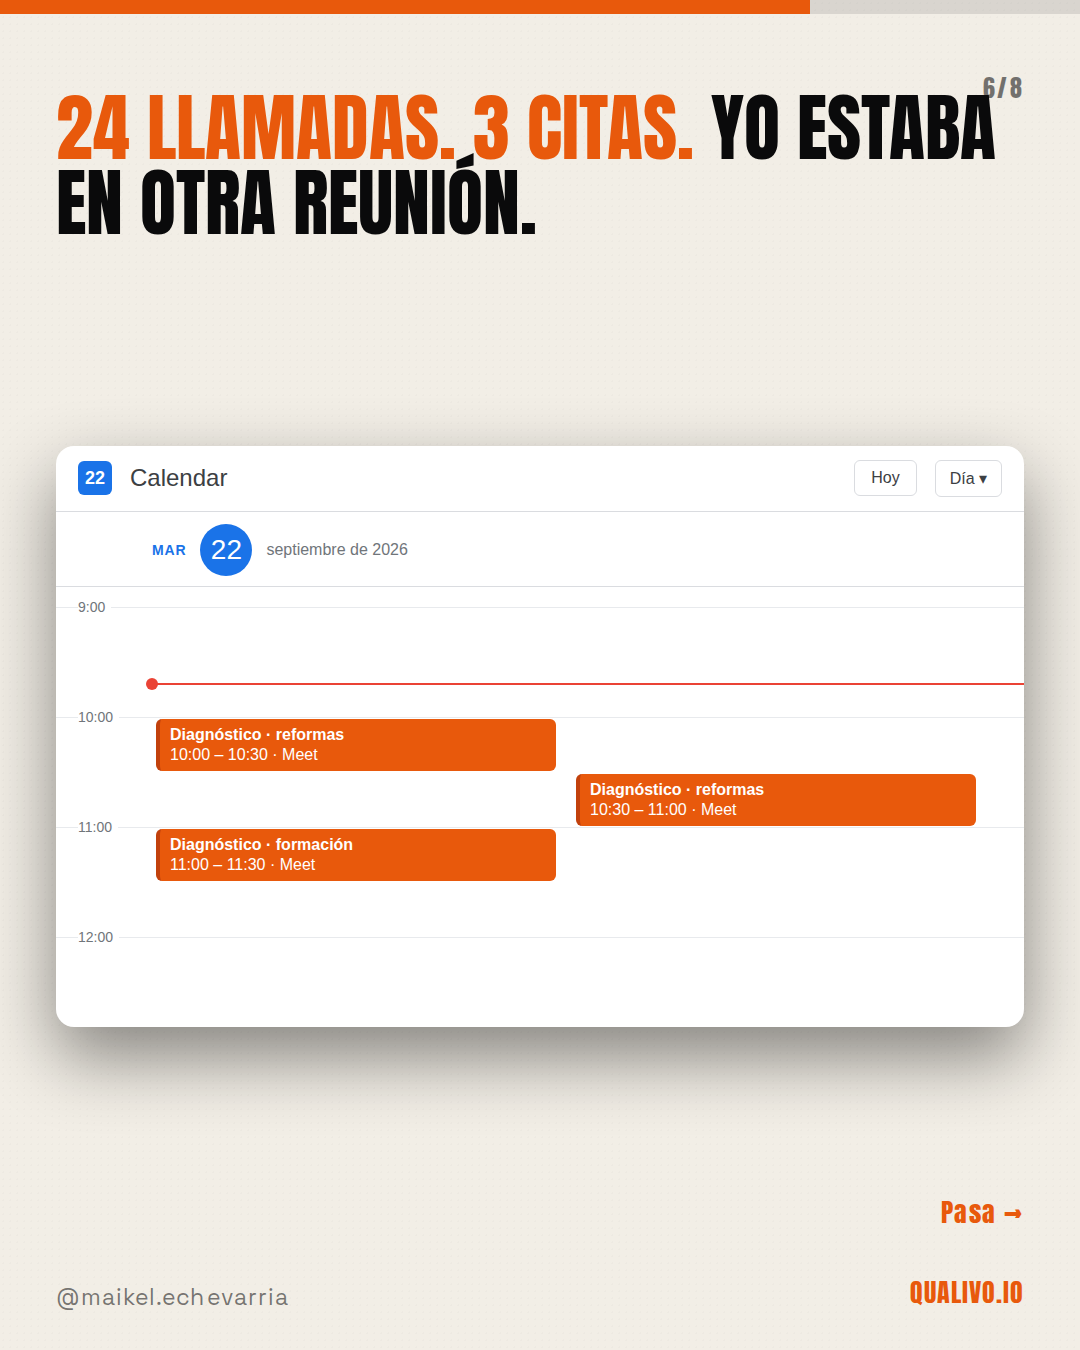
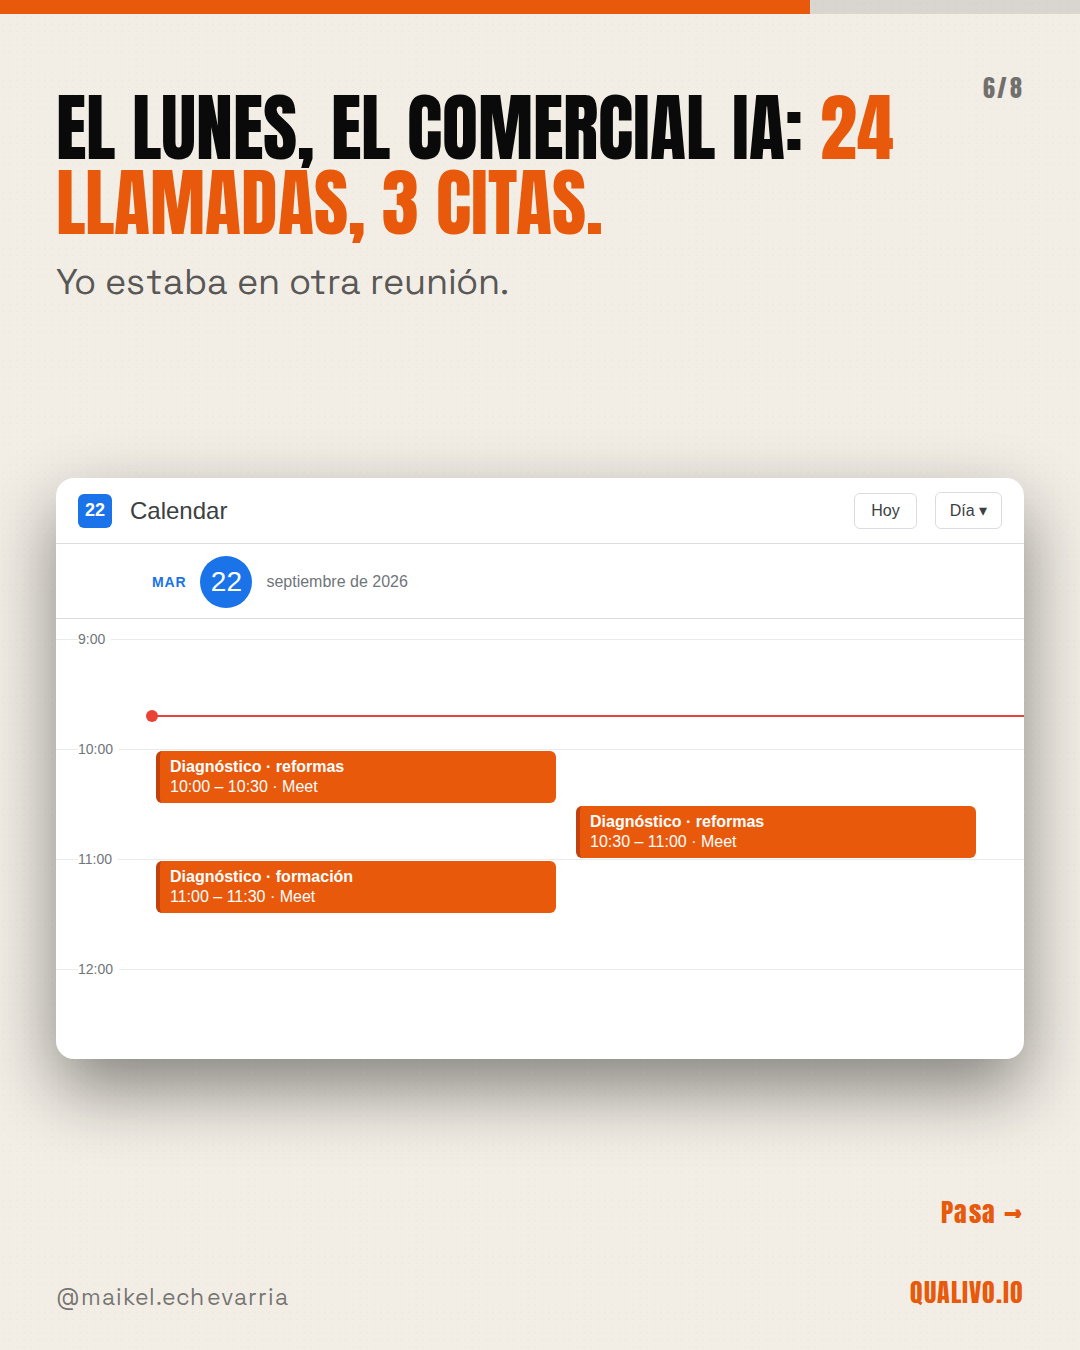
Carrusel del contacto: «esto es lo que hace un comercial IA», dicho tal cual
Claude-Session: https://claude.ai/code/session_015zPzMSu62cfqSPYhENKK62

diff --git a/content/carruseles/2026-09-22-contacto-7x/lamina-5.html b/content/carruseles/2026-09-22-contacto-7x/lamina-5.html
@@ -57,7 +57,8 @@ body{padding:0;background:#000}
 .now::before{content:'';position:absolute;left:-6px;top:-7px;width:12px;height:12px;border-radius:50%;background:#ea4335}
 .big{font-family:Anton;font-size:250px;line-height:.9;color:#E8590C;letter-spacing:-.02em}
 </style></head><body><div class="page tinta"><div class="prog"><i style="width:62%"></i></div><div class="n">5/8</div><div class="in">
-  <div class="h"><span class="nar">Lo mismo.</span> Sin depender de que alguien se acuerde.</div>
+  <div class="h">Esto es lo que hace <span class="nar">un comercial IA.</span></div>
+  <div class="t" style="opacity:.75">Lo mismo que el mejor comercial. Sin depender de que alguien se acuerde.</div>
   <div class="vis"><div class="phone"><div class="scr"><div class="sb"><span>10:11</span><span>●●● ᯤ ▮</span></div>
 <div class="wah"><span class="back">‹</span><div class="av">M</div><div><b>Maikel Echevarría</b><small>en línea</small></div></div>
 <div class="wall"><div class="day">lunes 21</div><div class="bub mio">Hola <span class="tapa"></span>, soy Maikel, de Qualivo. Acabas de pedir el diagnóstico y he leído lo que me has contado. ¿Lo vemos por aquí un momento?<span class="hh">10:11 ✓✓</span></div></div><div class="callbar"><div class="ic">📞</div><div><b>Raquel · llamada saliente</b><small>10:30 · a los 20 minutos, no había contestado</small></div></div></div></div></div>

diff --git a/content/carruseles/2026-09-22-contacto-7x/lamina-6.html b/content/carruseles/2026-09-22-contacto-7x/lamina-6.html
@@ -57,7 +57,8 @@ body{padding:0;background:#000}
 .now::before{content:'';position:absolute;left:-6px;top:-7px;width:12px;height:12px;border-radius:50%;background:#ea4335}
 .big{font-family:Anton;font-size:250px;line-height:.9;color:#E8590C;letter-spacing:-.02em}
 </style></head><body><div class="page crema"><div class="prog"><i style="width:75%"></i></div><div class="n">6/8</div><div class="in">
-  <div class="h"><span class="nar">24 llamadas. 3 citas.</span> Yo estaba en otra reunión.</div>
+  <div class="h">El lunes, el comercial IA: <span class="nar">24 llamadas, 3 citas.</span></div>
+  <div class="t" style="opacity:.75">Yo estaba en otra reunión.</div>
   <div class="vis"><div class="gcal">
 <div class="gtop"><div class="logo">22</div><div class="ttl">Calendar</div><div class="today">Hoy</div><div class="view">Día ▾</div></div>
 <div class="gday"><div><div class="dow">MAR</div></div><div class="num">22</div><div style="font-size:16px;color:#70757a">septiembre de 2026</div></div>

diff --git a/content/carruseles/2026-09-22-contacto-7x/lamina-1.html b/content/carruseles/2026-09-22-contacto-7x/lamina-1.html
@@ -58,7 +58,7 @@ body{padding:0;background:#000}
 .big{font-family:Anton;font-size:250px;line-height:.9;color:#E8590C;letter-spacing:-.02em}
 </style></head><body><div class="page tinta"><div class="prog"><i style="width:12%"></i></div><div class="n">1/8</div><div class="in">
   <div class="h" style="font-size:82px">Tardar una hora en contestar te cuesta <span class="nar">7 veces</span> más de lo que crees.</div>
-  <div class="t" style="opacity:.75">Lo midió Harvard en 2.241 empresas. Y lo que hago yo para que no me pase.</div>
+  <div class="t" style="opacity:.75">Lo midió Harvard en 2.241 empresas. Y esto es lo que hace un comercial IA para que no te pase.</div>
   <div class="vis"><svg width="440" height="440" viewBox="0 0 520 520" style="display:block;margin:0 auto">
 <circle cx="260" cy="260" r="230" fill="none" stroke="rgba(242,238,230,.12)" stroke-width="22"/>
 <path d="M260 30 A230 230 0 0 1 490 260" fill="none" stroke="#E8590C" stroke-width="22" stroke-linecap="round"/>

diff --git a/content/carruseles/2026-09-22-contacto-7x/caption.md b/content/carruseles/2026-09-22-contacto-7x/caption.md
@@ -6,7 +6,7 @@ Tardar una hora en contestar te cuesta 7 veces más de lo que crees.
 
 Harvard mandó un contacto de prueba a 2.241 empresas y cronometró. Solo el 37 % contestó en la primera hora. El 23 % no contestó nunca. Y las que contestaron en la primera hora cualificaron al contacto siete veces más.
 
-Un buen comercial ya lo sabe: contesta antes de que la persona escriba al siguiente. Mi agente hace lo mismo sin que nadie se acuerde: WhatsApp al minuto, llamada a los veinte. El lunes, 24 llamadas y 3 citas mientras yo estaba en otra reunión.
+Un buen comercial ya lo sabe: contesta antes de que la persona escriba al siguiente. Un comercial IA hace lo mismo sin que nadie se acuerde: WhatsApp al minuto, llamada a los veinte. El lunes, 24 llamadas y 3 citas mientras yo estaba en otra reunión.
 
 Guárdalo para el día que digas «ya le contestaré». Y dime abajo cuánto tardó tu último.
 
@@ -18,6 +18,6 @@ Tardar una hora en contestar te cuesta 7 veces más de lo que crees.
 
 Harvard Business Review mandó un contacto de prueba a 2.241 empresas y cronometró. El 37 % contestó en la primera hora. El 23 % no contestó nunca. Las que contestaron en la primera hora tenían siete veces más probabilidad de cualificar al contacto.
 
-Un buen comercial contesta antes de que la persona escriba al siguiente. Mi agente hace exactamente eso, sin depender de que alguien se acuerde: WhatsApp al minuto con sus palabras, llamada a los veinte si no contesta. El lunes: 24 llamadas, 3 citas, y yo en otra reunión.
+Un buen comercial contesta antes de que la persona escriba al siguiente. Un comercial IA hace exactamente eso, sin depender de que alguien se acuerde: WhatsApp al minuto con sus palabras, llamada a los veinte si no contesta. El lunes: 24 llamadas, 3 citas, y yo en otra reunión.
 
 Mide cuánto tardaste con el último. El último, no la media. Dímelo abajo.
